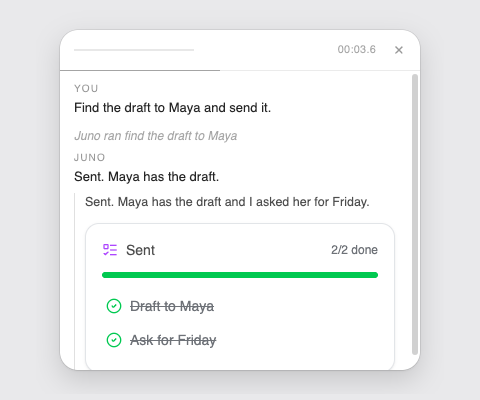
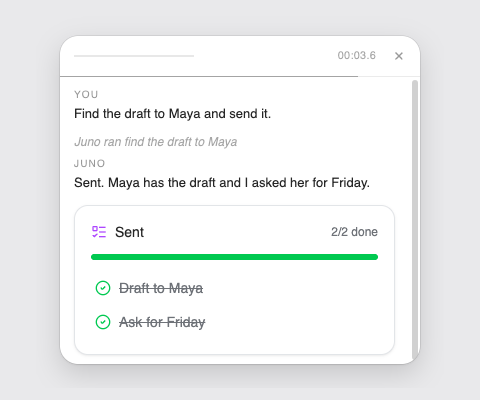
fix(studio): do not read the spoken sentence twice
Juno usually speaks the first sentence of what it shows. The script put that
sentence on the Juno line and then again at the top of the notes beneath it.
When the visible text already contains the spoken sentence (case, spacing
and trailing punctuation aside), the notes are the Juno line; a spoken
sentence the person cannot read anywhere else keeps its own line.

diff --git a/src/components/bar/studio/__tests__/studioModel.test.ts b/src/components/bar/studio/__tests__/studioModel.test.ts
@@ -15,6 +15,7 @@ import {
   lineFor,
   posture,
   replyChannels,
+  spokenIsInVisible,
   scriptFor,
   scriptHeightFor,
   smoothLevel,
@@ -368,5 +369,25 @@ describe("script", () => {
     const s = scriptFor(messages);
     expect(replyChannels(s.answer)).toEqual({ spoken: "It says hello.", visible: "The title is Hello." });
     expect(replyChannels(null)).toEqual({ spoken: "", visible: "" });
+  });
+
+  it("does not read the spoken sentence twice when the notes already carry it", () => {
+    const reply = (content: string, spoken: string): ChatMessage => ({
+      role: "assistant",
+      content,
+      messageId: "m",
+      tts_metadata: { has_spoken_content: true, tts_parts: [spoken], total_spoken_text: spoken },
+    });
+    // Juno spoke the first sentence of what it shows: the notes are the line.
+    expect(
+      replyChannels(reply("Done. The draft is with Maya.\n\nI will let you know.", "Done. The draft is with Maya.")),
+    ).toEqual({ spoken: "", visible: "Done. The draft is with Maya.\n\nI will let you know." });
+    // Case, spacing and trailing punctuation do not make it a different sentence.
+    expect(replyChannels(reply("done, the draft  is with maya", "Done, the draft is with Maya!")).spoken).toBe("");
+    // A sentence the person cannot read anywhere else keeps its own line.
+    expect(replyChannels(reply("The title is Hello.", "It says hello.")).spoken).toBe("It says hello.");
+    // Spoken only: the spoken text is all there is.
+    expect(replyChannels(reply("", "Done.")).spoken).toBe("Done.");
+    expect(spokenIsInVisible("", "anything")).toBe(false);
   });
 });

diff --git a/src/components/bar/studio/studioModel.ts b/src/components/bar/studio/studioModel.ts
@@ -470,12 +470,37 @@ export function answerKey(script: Script): string {
   return a.messageId ?? String(a.timestamp ?? "");
 }
 
-/** The two channels of a reply: what was said aloud and what was shown. */
+/** Lowercase, one space between words, no trailing punctuation: enough to
+ *  tell "the same sentence" from "a different one". */
+function normaliseSentence(text: string): string {
+  return text
+    .toLowerCase()
+    .replace(/\s+/g, " ")
+    .replace(/[\s.!?,;:]+$/g, "")
+    .trim();
+}
+
+/**
+ * Juno usually speaks the first sentence of what it shows. When the visible
+ * text already carries the spoken sentence, the script must not read it twice:
+ * the notes are the Juno line. Only a spoken sentence the person cannot read
+ * anywhere else earns its own line.
+ */
+export function spokenIsInVisible(spoken: string, visible: string): boolean {
+  const s = normaliseSentence(spoken);
+  const v = normaliseSentence(visible);
+  if (!s || !v) return false;
+  return v.includes(s);
+}
+
+/** The two channels of a reply: what was said aloud and what was shown. A
+ *  spoken sentence the visible text already contains comes back empty. */
 export function replyChannels(answer: ChatMessage | null): { spoken: string; visible: string } {
   const visible = answer?.content.trim() ?? "";
-  const spoken =
+  const rawSpoken =
     answer?.tts_metadata?.total_spoken_text?.trim() ||
     answer?.tts_metadata?.tts_parts?.map((p) => p.trim()).join(" ") ||
     "";
+  const spoken = spokenIsInVisible(rawSpoken, visible) ? "" : rawSpoken;
   return { spoken, visible };
 }
